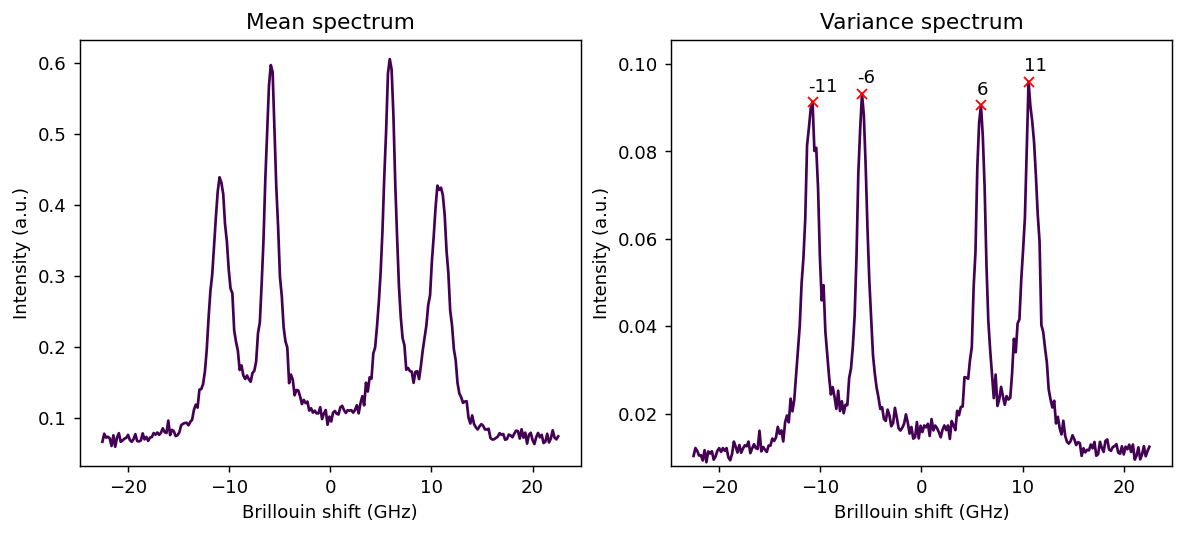
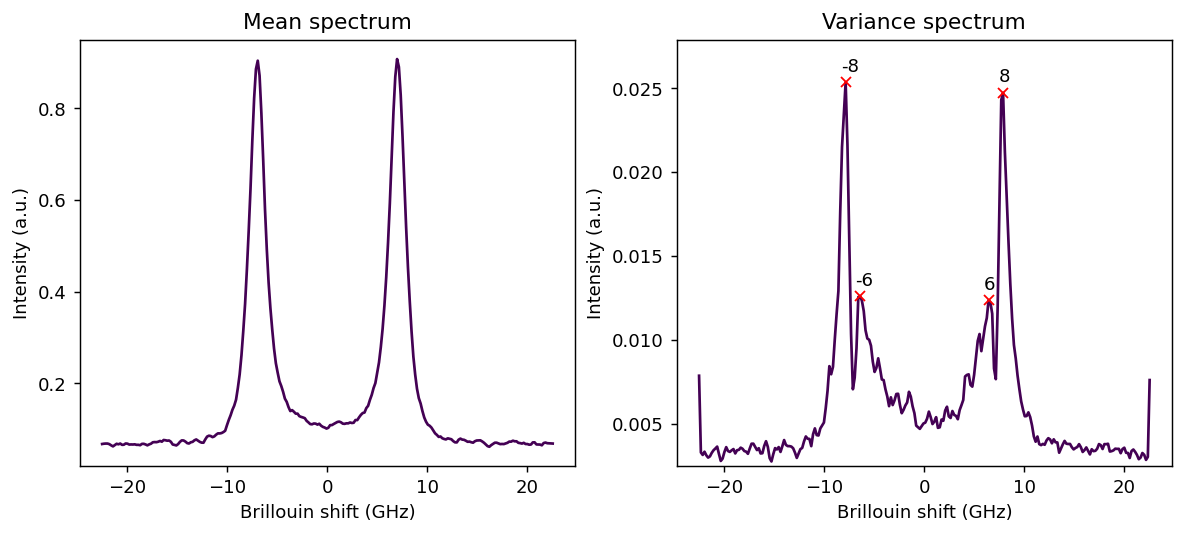
feat: update classical analysis example to demonstrate variance spectrum with overlapping doublets

diff --git a/examples/04_classical_analysis.py b/examples/04_classical_analysis.py
@@ -9,17 +9,24 @@ mean spectrum (where are the peaks?) and the variance spectrum (which of those
 peaks actually change from pixel to pixel, rather than being a constant
 background feature or a shared noise floor?).
 
-This matters most for data holding more than one Brillouin doublet: the mean
-spectrum alone doesn't tell you how many independent modes are mixed into the
-dataset. The variance spectrum does - each spatially-varying doublet shows up as
-its own pair of variance peaks (Stokes/anti-Stokes), giving a fast, model-free
-estimate of how many endmembers/components/modes to look for in the steps that
-follow (``05_unmix_vca.py`` through ``09_fit_spectra.py``).
+This matters most for data holding more than one Brillouin doublet, especially
+when those doublets overlap closely enough to blend into what looks like a single
+peak: the mean spectrum alone can't tell you how many independent modes are
+actually mixed into the dataset. The variance spectrum can - each spatially-varying
+doublet still shows up as its own pair of variance peaks (Stokes/anti-Stokes),
+because that's where the intensity actually changes from pixel to pixel (as the
+local mix of the two materials changes), even where the *sum* of both doublets in
+the mean spectrum has merged into one indistinguishable peak. This gives a fast,
+model-free estimate of how many endmembers/components/modes to look for in the
+steps that follow (``05_unmix_vca.py`` through ``09_fit_spectra.py``).
 
 Continues from ``03_remove_irf.py`` conceptually (nothing to load - this operates
 directly on preprocessed data). Unlike the earlier examples, this one uses
-``two_material_image()`` rather than ``single_peak_image()``, since it has two
-spatially-varying Brillouin doublets to actually tell apart.
+``two_material_image()`` rather than ``single_peak_image()``, with its two
+materials' frequency shifts moved much closer together than that function's
+default (6.0/11.0 GHz) - close enough that the two doublets fully merge in the
+mean spectrum, rather than sitting cleanly apart as they do in the later
+unmixing/decomposition/clustering examples.
 """
 import matplotlib.pyplot as plt
 
@@ -27,9 +34,16 @@ import brillouinpy as bp
 from _synthetic_data import two_material_image
 
 if __name__ == '__main__':
-    brillouin_image, true_abundances, true_spectra = two_material_image()
+    # freq_shift_a/freq_shift_b much closer together than the two_material_image()
+    # default (6.0/11.0 GHz) - close enough that the two doublets fully merge in the
+    # mean spectrum, so the variance spectrum actually has something extra to show.
+    brillouin_image, true_abundances, true_spectra = two_material_image(freq_shift_a=7.0, freq_shift_b=7.5)
 
+    # Denoising matters more here than in earlier steps: the variance spectrum
+    # amplifies per-pixel noise (it's a squared quantity), which can otherwise
+    # produce spurious extra local maxima next to a real peak.
     preprocessed_image = bp.preprocessing.Pipeline([
+        bp.preprocessing.denoise.SavGol(window_length=7, polyorder=2),
         bp.preprocessing.normalise.MaxIntensity(pixelwise=True),
     ]).apply(brillouin_image)
 

diff --git a/docs/generate_tutorial_images.py b/docs/generate_tutorial_images.py
@@ -79,13 +79,17 @@ if __name__ == '__main__':
     # -----------------------------------------------------------------------
     # 4. Classical data analysis (mean & variance)
     # -----------------------------------------------------------------------
-    mix_image, true_abundances, true_spectra = two_material_image()
-    mix_preprocessed = bp.preprocessing.Pipeline([
+    # Frequency shifts much closer together than the default (6.0/11.0 GHz, used
+    # for the unmixing/decomposition/clustering figures below) so the two doublets
+    # fully merge in the mean spectrum, demonstrating what the variance spectrum adds.
+    classical_image, _, _ = two_material_image(freq_shift_a=7.0, freq_shift_b=7.5)
+    classical_preprocessed = bp.preprocessing.Pipeline([
+        bp.preprocessing.denoise.SavGol(window_length=7, polyorder=2),
         bp.preprocessing.normalise.MaxIntensity(pixelwise=True),
-    ]).apply(mix_image)
+    ]).apply(classical_image)
 
-    mean_spectrum = mix_preprocessed.mean
-    variance_spectrum = mix_preprocessed.variance
+    mean_spectrum = classical_preprocessed.mean
+    variance_spectrum = classical_preprocessed.variance
 
     fig = plt.figure(figsize=(9, 4), layout='constrained')
     plt.subplot(121)
@@ -100,6 +104,11 @@ if __name__ == '__main__':
     # -----------------------------------------------------------------------
     # 5. Unmixing (VCA)
     # -----------------------------------------------------------------------
+    mix_image, true_abundances, true_spectra = two_material_image()
+    mix_preprocessed = bp.preprocessing.Pipeline([
+        bp.preprocessing.normalise.MaxIntensity(pixelwise=True),
+    ]).apply(mix_image)
+
     unmixer = bp.analysis.unmix.VCA(n_endmembers=2, abundance_method='ucls')
     abundance_maps, endmembers = unmixer.apply(mix_preprocessed)
 

diff --git a/examples/_synthetic_data.py b/examples/_synthetic_data.py
@@ -104,11 +104,17 @@ def image_with_irf(nx=15, ny=15, n_channels=250, freq_shift=8.5, linewidth=1.0,
     return bp.SpectralImage(spectral_data, spectral_axis), irf_index
 
 
-def two_material_image(nx=20, ny=20, n_channels=250, noise=3e-4, seed=1):
+def two_material_image(nx=20, ny=20, n_channels=250, noise=3e-4, seed=1,
+                        freq_shift_a=6.0, freq_shift_b=11.0):
     """
     A :class:`~brillouinpy.SpectralImage` mixing two "materials" (each a single DHO
     peak at a different frequency shift) with a smooth spatial abundance gradient, useful
     for the unmixing/decomposition examples.
+
+    ``freq_shift_a``/``freq_shift_b`` default to a well-separated pair (6.0/11.0 GHz);
+    move them closer together (e.g. for the classical-analysis example) to demonstrate
+    variance analysis resolving two doublets that overlap into what looks like a single
+    peak in the mean spectrum.
 
     Returns
     -------
@@ -126,8 +132,8 @@ def two_material_image(nx=20, ny=20, n_channels=250, noise=3e-4, seed=1):
         mirror_spacing=6e-3, scan_amplitude=480e-9, no_of_channels=n_channels
     )
 
-    material_a = _dho(spectral_axis, 5e-3, 6.0, 0.8)
-    material_b = _dho(spectral_axis, 5e-3, 11.0, 1.2)
+    material_a = _dho(spectral_axis, 5e-3, freq_shift_a, 0.8)
+    material_b = _dho(spectral_axis, 5e-3, freq_shift_b, 1.2)
 
     abundance_a = _gradient(nx, ny)
     abundance_b = 1 - abundance_a

diff --git a/docs/tutorial.md b/docs/tutorial.md
@@ -234,25 +234,29 @@ mean_spectrum = preprocessed_image.mean
 variance_spectrum = preprocessed_image.variance
 ```
 
-This matters most for data holding more than one Brillouin doublet - the mean
-spectrum alone doesn't tell you how many independent modes are mixed in. This step
-therefore switches to the same two-material synthetic dataset used from here through
-step 8 (`two_material_image()`, not the single-peak data from steps 1-3), so there's
-actually more than one doublet to tell apart:
+This matters most for data holding more than one Brillouin doublet, especially when
+those doublets overlap closely enough to blend into what looks like a single peak -
+the mean spectrum alone can't tell you how many independent modes are actually mixed
+in. This step therefore uses a variant of the two-material synthetic dataset from
+steps 5-8 (`two_material_image()`) with its two materials' frequency shifts moved
+much closer together than that function's default (6.0/11.0 GHz), so the two
+doublets fully merge in the mean spectrum instead of sitting cleanly apart:
 
 ```{image} _static/tutorial/04_classical_analysis.png
-:alt: Left, the mean spectrum showing two overlapping symmetric doublets. Right, the variance spectrum over the same range, showing four sharp peaks marked at -11, -6, 6 and 11 GHz, exactly at the two doublets' Stokes/anti-Stokes positions, with a much flatter floor between and around them than the mean spectrum has.
+:alt: Left, the mean spectrum showing what looks like a single symmetric doublet. Right, the variance spectrum over the same range, showing two close, sharp peaks on each side (four total), each pair straddling the corresponding mean-spectrum peak, with a much flatter floor between and around them than the mean spectrum has.
 :width: 720px
 :align: center
 ```
 
-Both doublets are visible in the mean spectrum, but the variance spectrum makes them
-unambiguous: `bp.plot.peaks` (built on `scipy.signal.find_peaks`) marks four sharp
-variance peaks, exactly at the two doublets' Stokes/anti-Stokes positions, with a
-much flatter floor everywhere else - because those are the only spectral regions
-whose intensity actually varies from pixel to pixel across the image (the abundance
-of each material changes spatially; the noise floor between peaks does not, in a
-structured way). Real Brillouin peaks come in +/- pairs, so half the variance-peak
+The mean spectrum alone looks like a single, ordinary doublet - but the variance
+spectrum reveals two peaks hiding on each side: `bp.plot.peaks` (built on
+`scipy.signal.find_peaks`) marks four sharp variance peaks, straddling each mean
+peak, because that's where the intensity actually changes from pixel to pixel across
+the image (the local mix of the two materials shifts spatially; a genuine single
+peak's flat top would not vary that way). Denoising beforehand
+(`preprocessing.denoise.SavGol`) matters more here than in earlier steps, since the
+variance spectrum squares per-pixel noise and can otherwise turn it into spurious
+extra local maxima. Real Brillouin peaks come in +/- pairs, so half the variance-peak
 count gives the number of independent modes ('doublets') worth analysing further:
 
 ```python
